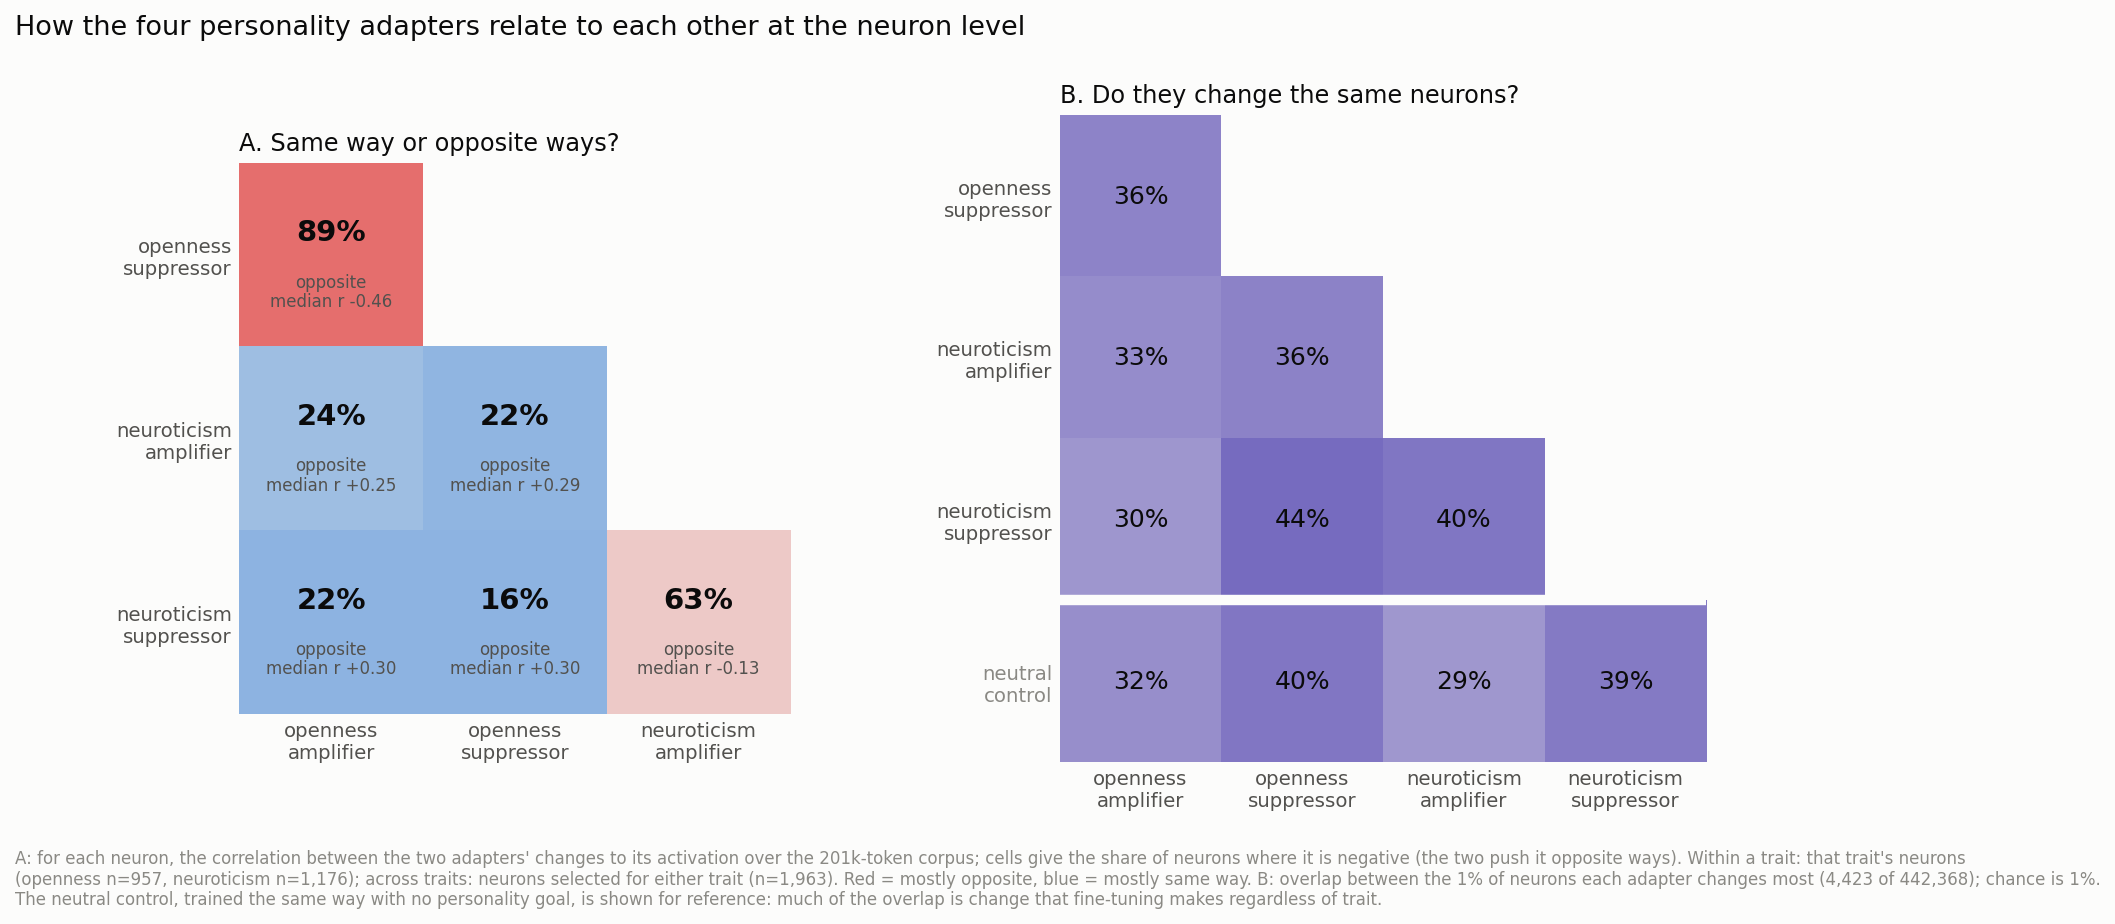
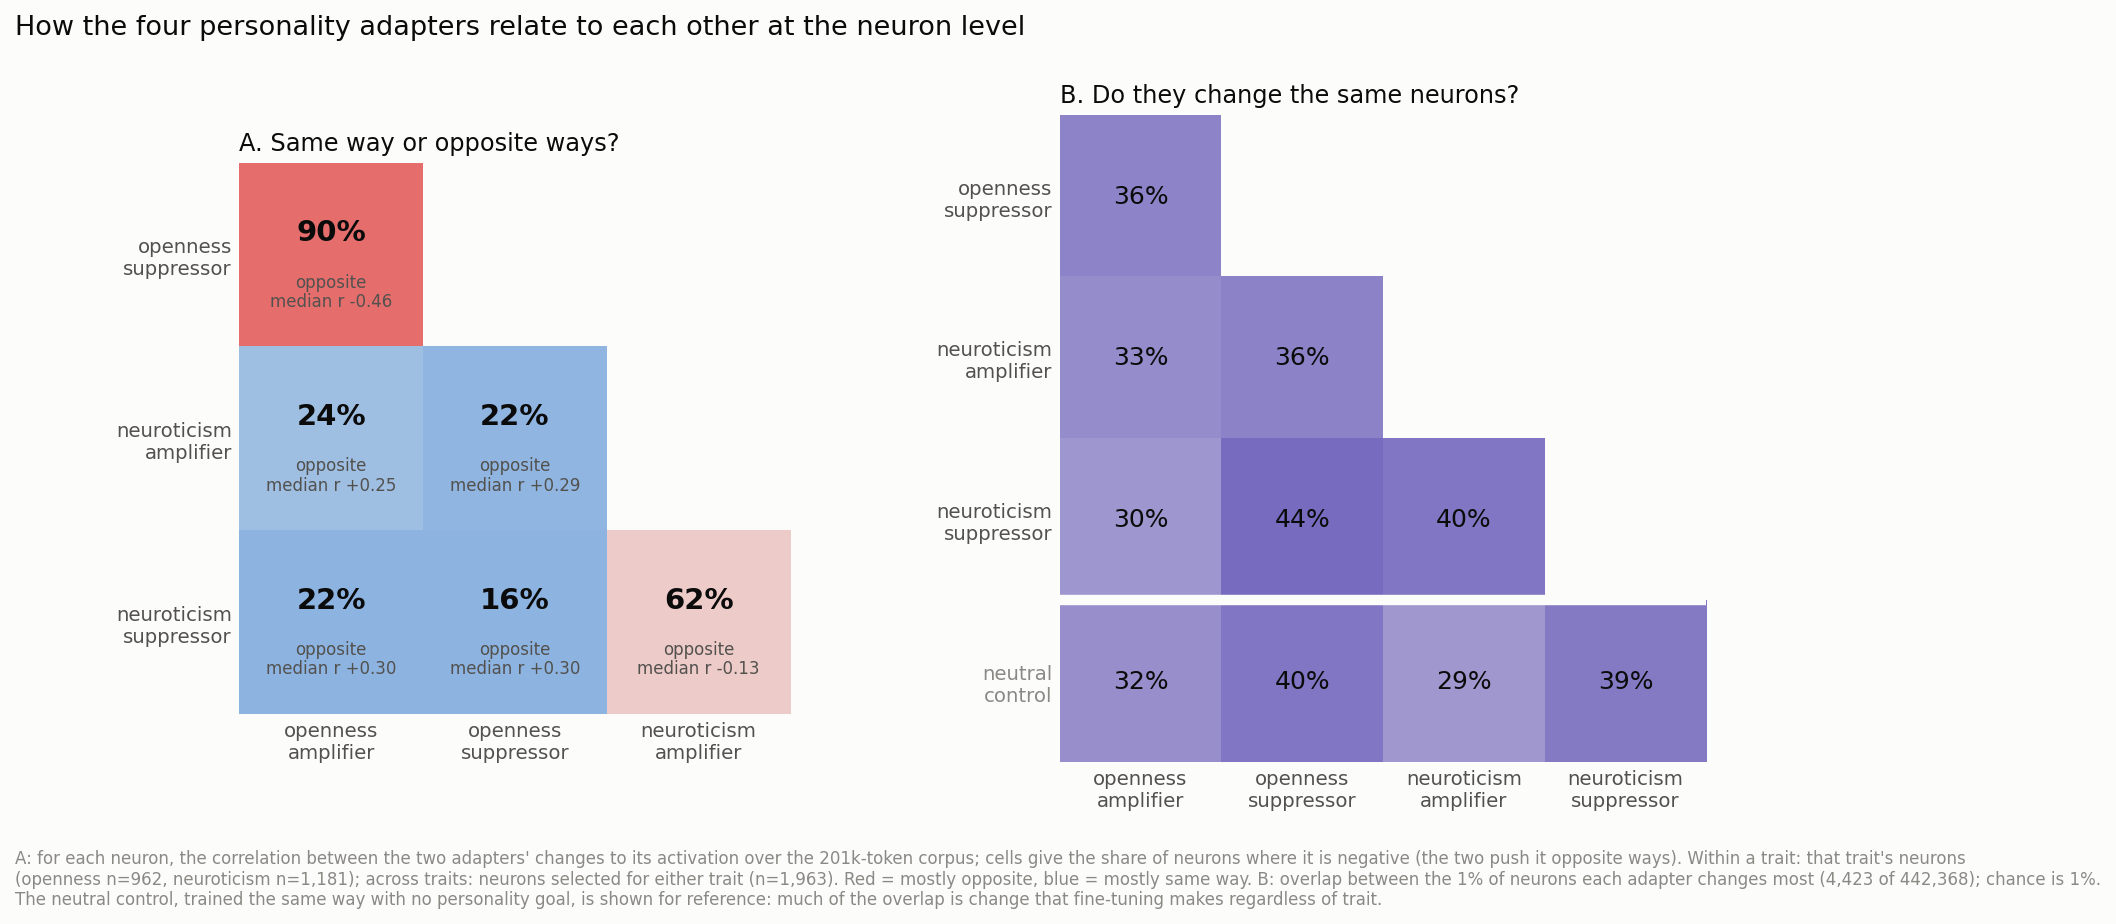
Count population neurons by the population selection's traits
First-study neurons carried into the population kept their first-study trait labels, so 14 neurons
selected for both traits counted for one, and 2 counted for both that the population selected for one.
The index now stores population_traits; the browser and the matrix figure count from it.

diff --git a/explorer/static/app.js b/explorer/static/app.js
@@ -627,7 +627,7 @@ function popTableHTML(R) {
       <tr><th rowspan="2"></th><th rowspan="2" class="num">n</th><th colspan="3" class="grp">Same pattern, rescaled</th><th rowspan="2" class="num">Same pattern,<br>large local<br>changes</th><th rowspan="2" class="num">Different<br>pattern</th><th rowspan="2" class="num">Constant<br>push</th><th rowspan="2" class="num">Mostly at<br>reply start</th><th rowspan="2" class="num">Amplifier and<br>suppressor opposite</th></tr>
       <tr><th class="num">all</th><th class="num">turned up</th><th class="num">turned down</th></tr>
     </thead><tbody>${body}</tbody></table>
-    <p class="caption">Kind of change is judged under the adapter of the neuron's trait that changes it most (for random neurons, the strongest of the four). “Same pattern” means its activations stay closely correlated with the original model's (r ≥ 0.9) and are scaled up or down. Random neurons barely change under any adapter, so nearly all of them count as “same pattern”; their split is not comparable with the trait rows. 180 neurons count for both traits. Click a number to see those neurons.${fromStats ? " The list can show a few fewer: 48 neurons carried over from the first study have no saved kind-of-change measurement." : ""}</p></div>`;
+    <p class="caption">Kind of change is judged under the adapter of the neuron's trait that changes it most (for random neurons, the strongest of the four). “Same pattern” means its activations stay closely correlated with the original model's (r ≥ 0.9) and are scaled up or down. Random neurons barely change under any adapter, so nearly all of them count as “same pattern”; their split is not comparable with the trait rows.${R.samples?.both ? ` ${nfmt(R.samples.both)} neurons count for both traits.` : ""} Click a number to see those neurons.${fromStats ? " The list can show a few fewer: 48 neurons carried over from the first study have no saved kind-of-change measurement." : ""}</p></div>`;
 }
 function invTableHTML(R) {
   const rows = R.investigation || [];

diff --git a/explorer/server.py b/explorer/server.py
@@ -473,7 +473,8 @@ def build_catalog(index, plain, fin_by_id, edits, profile_files):
         rand = r.get("kind") == "random_control"
         traits = set()
         if pop and not rand:
-            traits = {t for t in (r.get("selected_for") or []) if t in POLES}
+            # the population selection's traits when present (a first-study neuron may have been selected differently)
+            traits = {t for t in (r.get("population_traits") or r.get("selected_for") or []) if t in POLES}
             if fin and fin.get("kind") != "random" and fin.get("trait") in POLES:
                 traits.add(fin["trait"])
         samples = set()

diff --git a/scripts/figures.py b/scripts/figures.py
@@ -220,7 +220,7 @@ def fig_matrix(run, out):
     def corrs(a, b):
         # within a trait: that trait's neurons; across traits: neurons selected for either trait
         want = {T[a[0]], T[b[0]]}
-        ids = [i for i, r in idx.items() if r["kind"] != "random_control" and want & set(r.get("selected_for") or [])]
+        ids = [i for i, r in idx.items() if r["kind"] != "random_control" and want & set(r.get("population_traits") or [])]
         if a[0] == b[0]:
             v = [(idx[i].get("corr_amp_sup") or {}).get(T[a[0]]) for i in ids]
         else:
